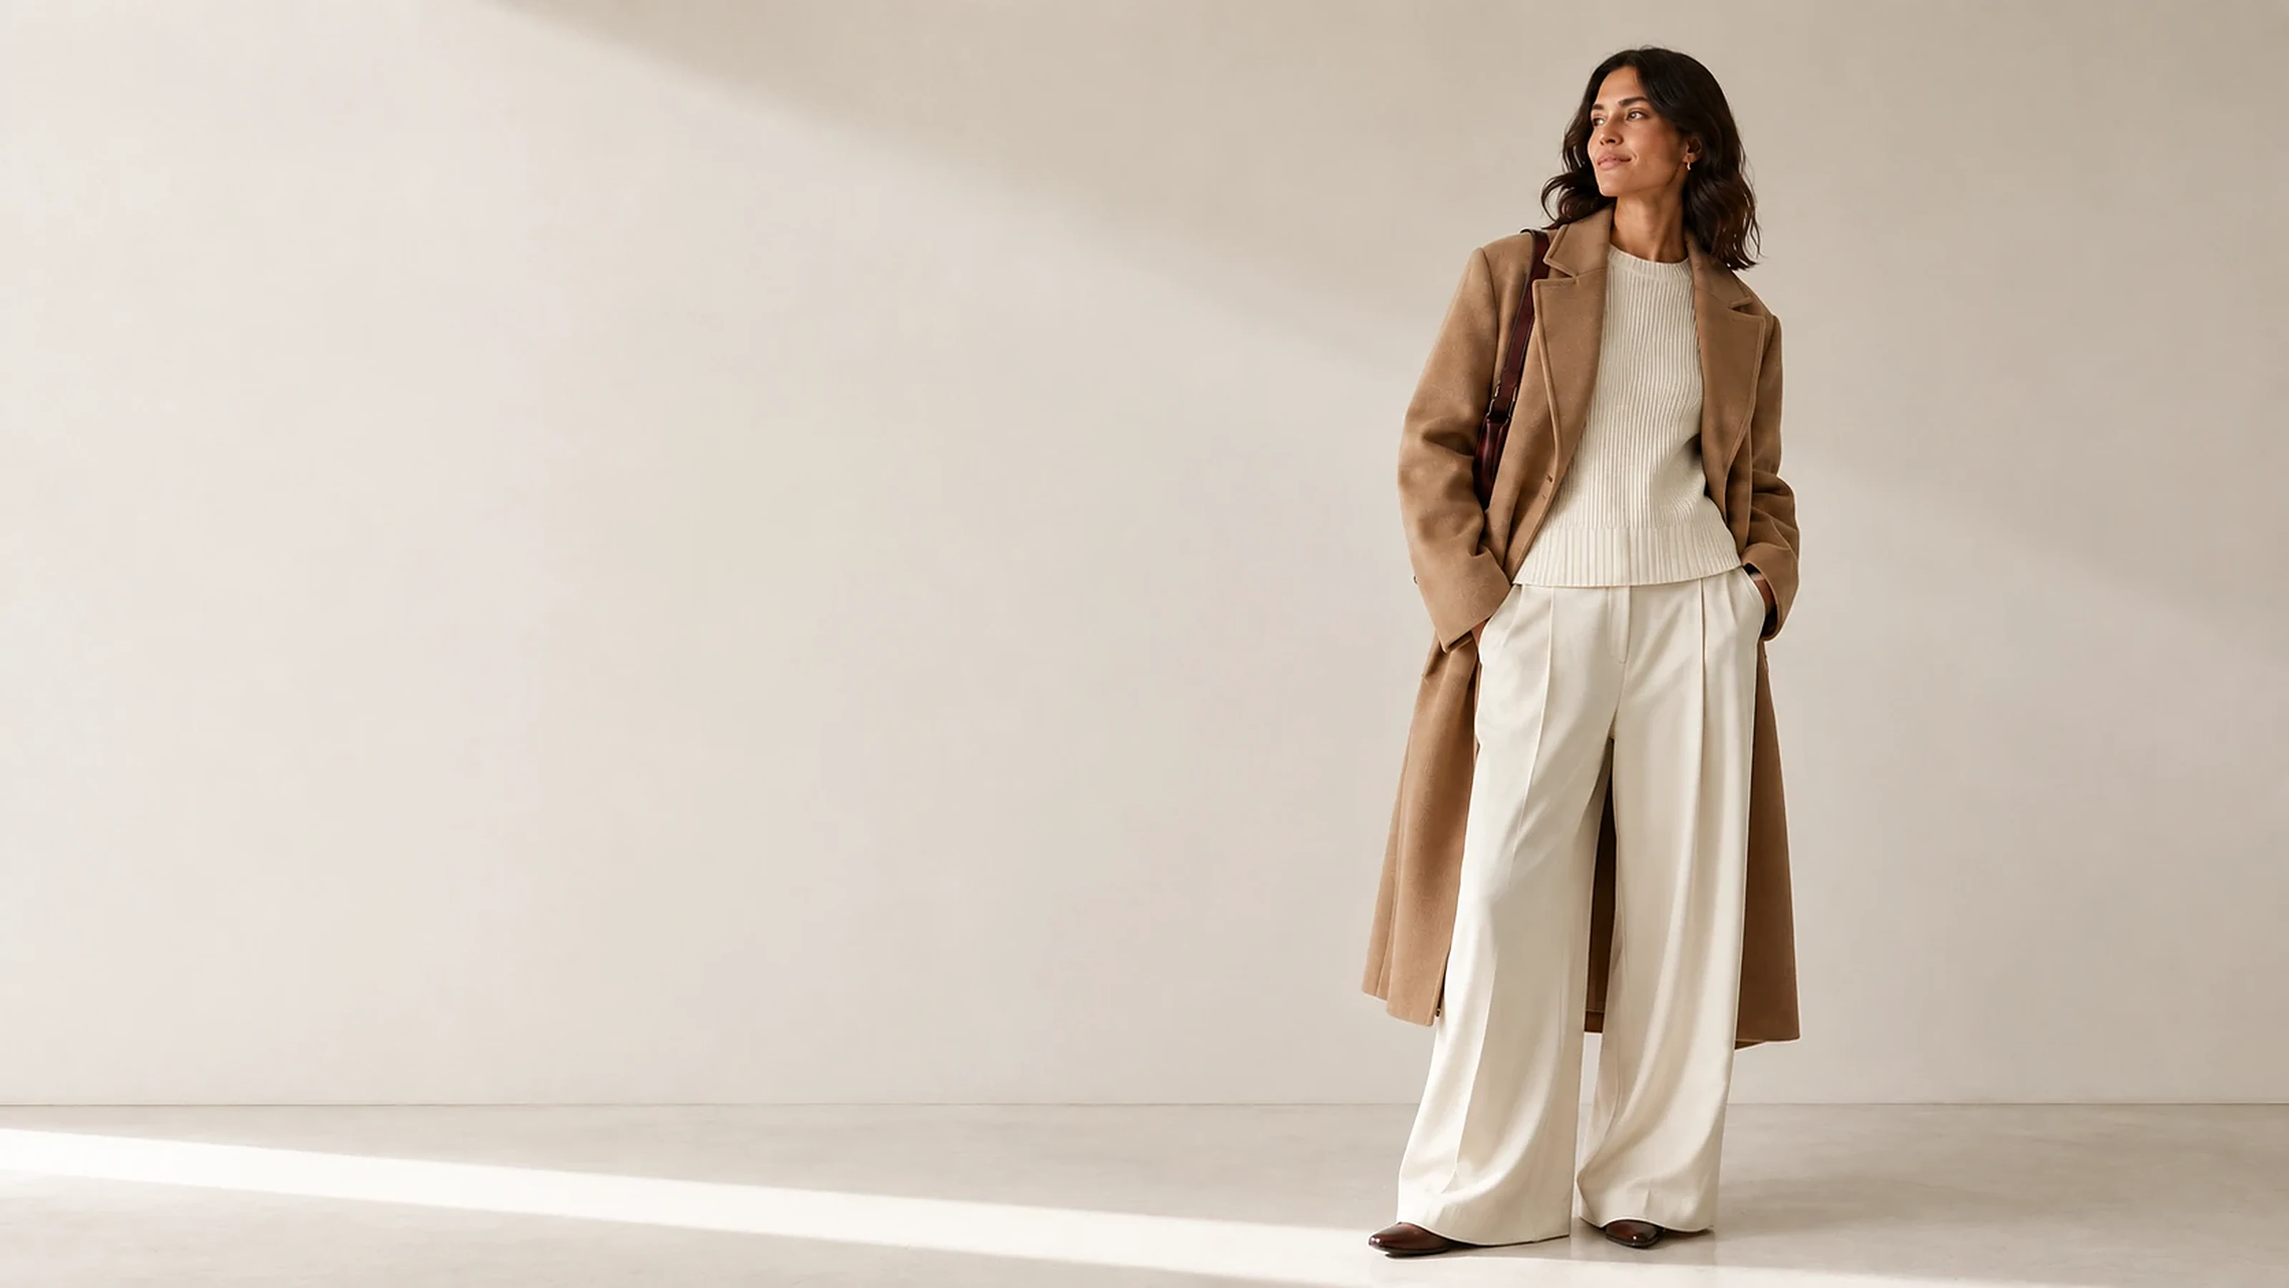
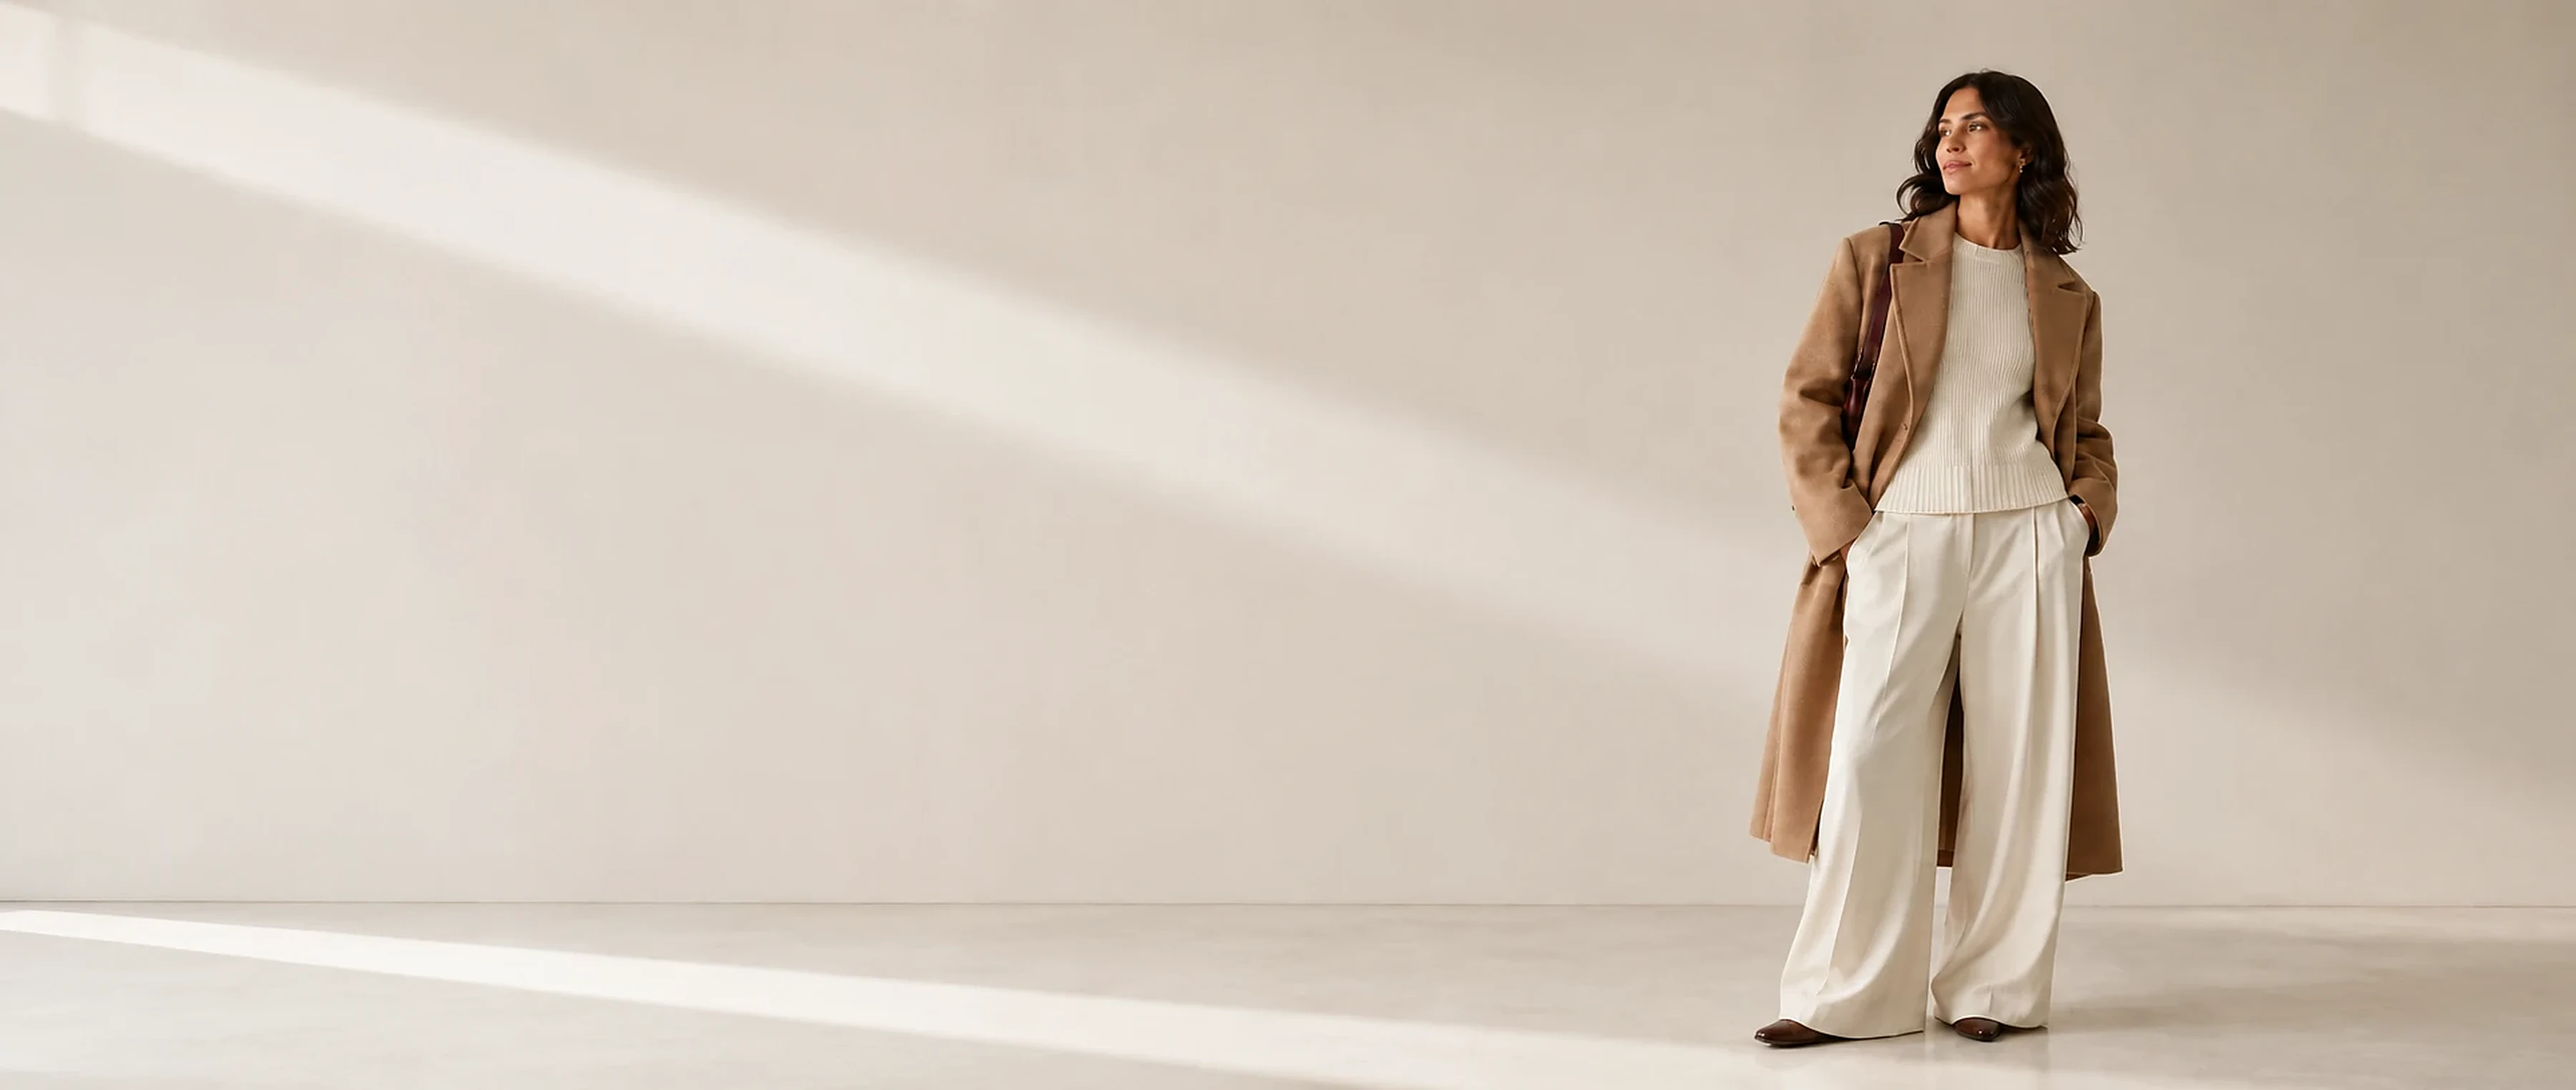
Use wider panoramic hero image, fill full width
Swap in the longer hero photo (~2.36:1, model on the right) delivered at
3600x1524. The hero box now uses the photo's own wide ratio and is
width-driven with object-fit:cover, so the image fills the full width
edge to edge — beige runs continuously under the hero copy with no
letterbox bands or seam — while the model stays fully in frame (head to
feet) on the right at every viewport. Drop the max-height cap that
previously forced letterboxing.

Claude-Session: https://claude.ai/code/session_01MaaoAfKUZ6CKmWijBX4PTj

diff --git a/app.css b/app.css
@@ -61,14 +61,14 @@ h1,h2,h3{font-family:var(--font-display);font-weight:var(--w-semibold);
 .perso-rail{padding:var(--space-12) 0;border-top:1px solid var(--line)}
 
 /* ---------- Hero (full-bleed image, copy overlaid in the negative space) ---------- */
-.hero{position:relative;background:#EAE4DF;overflow:hidden}
-/* The full model (head to feet) must always be visible. `contain` guarantees the
-   whole photo is shown — never cropped — at any viewport. When the box is capped
-   by max-height (wide/short screens) the image scales down and hugs the right, so
-   the model stays fully in frame and the freed space becomes beige matching the
-   photo's own background (set on .hero above), reading as one seamless surface. */
-.hero__bg{width:100%;display:block;aspect-ratio:3200 / 1801;max-height:82vh;
-  object-fit:contain;object-position:right center}
+.hero{position:relative;background:#E2DCD3;overflow:hidden}
+/* Wide panoramic hero. The box takes the photo's own (wide) aspect ratio and is
+   width-driven, so `cover` fills the full width with no letterbox bands — the beige
+   runs edge to edge and continues seamlessly under the hero copy. The model sits on
+   the right and is anchored there, so she stays fully in frame, head to feet, at
+   every viewport width (the empty beige on her left is what gets cropped, if any). */
+.hero__bg{width:100%;display:block;aspect-ratio:3600 / 1524;
+  object-fit:cover;object-position:right center}
 .hero__overlay{position:absolute;inset:0;display:flex;align-items:center;
   background:linear-gradient(90deg,var(--paper) 0%,rgba(247,247,244,.78) 28%,rgba(247,247,244,.32) 48%,transparent 64%)}
 .hero__copy{max-width:var(--container);margin:0 auto;width:100%;padding:0 var(--space-12)}
